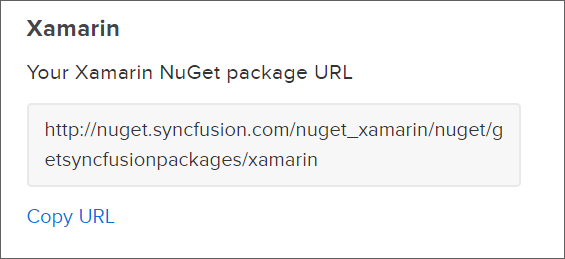
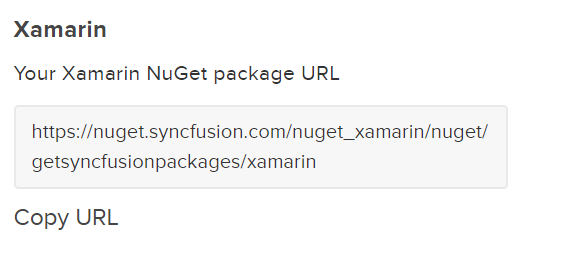
EXT-3461-NuGet-Feed-Changes

diff --git a/Xamarin/NuGet-Packages.md b/Xamarin/NuGet-Packages.md
@@ -30,7 +30,7 @@ You should get the private Syncfusion Xamarin NuGet feed URL to install or upgra
 
 2. Click the Copy URL label under Xamarin platform to copy the Syncfusion Xamarin platform NuGet feed to clipboard or directly use the following URL: 
 
-    [http://nuget.syncfusion.com/nuget_xamarin/nuget/getsyncfusionpackages/xamarin](http://nuget.syncfusion.com/nuget_xamarin/nuget/getsyncfusionpackages/xamarin) 
+    [https://nuget.syncfusion.com/nuget_xamarin/nuget/getsyncfusionpackages/xamarin](https://nuget.syncfusion.com/nuget_xamarin/nuget/getsyncfusionpackages/xamarin) 
 
     ![](NuGet_Packages_Images/img1.png)
 
@@ -51,7 +51,7 @@ You should get the private Syncfusion Xamarin NuGet feed URL to install or upgra
     **Name:** Name of the package listed in the available package sources.
     
     **Source:** Syncfusion Xamarin NuGet Feed URL      
-    [http://nuget.syncfusion.com/nuget_xamarin/nuget/getsyncfusionpackages/xamarin](http://nuget.syncfusion.com/nuget_xamarin/nuget/getsyncfusionpackages/xamarin).
+    [https://nuget.syncfusion.com/nuget_xamarin/nuget/getsyncfusionpackages/xamarin](https://nuget.syncfusion.com/nuget_xamarin/nuget/getsyncfusionpackages/xamarin).
 
 5.	Click the **Update** button to add the name and source details to package sources. 
 
@@ -73,7 +73,7 @@ You should get the private Syncfusion Xamarin NuGet feed URL to install or upgra
 
     **Name:** Enter the name (For e.g., Syncfusion Xamarin Packages).
 
-    **Location:** Enter the following URL – [http://nuget.syncfusion.com/nuget_xamarin/nuget/getsyncfusionpackages/xamarin](http://nuget.syncfusion.com/nuget_xamarin/nuget/getsyncfusionpackages/xamarin).
+    **Location:** Enter the following URL – [https://nuget.syncfusion.com/nuget_xamarin/nuget/getsyncfusionpackages/xamarin](https://nuget.syncfusion.com/nuget_xamarin/nuget/getsyncfusionpackages/xamarin).
 
     ![](NuGet_Packages_Images/img5.png)
  
@@ -120,7 +120,7 @@ To reference the Syncfusion Xamarin.Forms component using the Package Manager Co
     Install-Package Syncfusion.Xamarin.SfChart
 
     #install specified package in default project with specified package source
-    Install-Package Syncfusion.Xamarin.SfChart -Source "http://nuget.syncfusion.com/nuget_xamarin/nuget/getsyncfusionpackages/xamarin"
+    Install-Package Syncfusion.Xamarin.SfChart -Source "https://nuget.syncfusion.com/nuget_xamarin/nuget/getsyncfusionpackages/xamarin"
 
     #install specified package in specified project 
     Install-Package Syncfusion.Xamarin.SfChart -ProjectName SyncfusionDemoApplication
@@ -168,10 +168,10 @@ The NuGet Command Line Interface (CLI), nuget.exe, provides the full extent of N
 
     ~~~
     #For Windows platform
-    nuget.exe Sources Add –Name “Syncfusion Source” –Source “http://nuget.syncfusion.com/nuget_xamarin/nuget/getsyncfusionpackages/xamarin”
+    nuget.exe Sources Add –Name “Syncfusion Source” –Source “https://nuget.syncfusion.com/nuget_xamarin/nuget/getsyncfusionpackages/xamarin”
 
     #For MAC/Linux platform
-    mono nuget.exe Sources Add –Name “Syncfusion Source” –Source “http://nuget.syncfusion.com/nuget_xamarin/nuget/getsyncfusionpackages/xamarin”
+    mono nuget.exe Sources Add –Name “Syncfusion Source” –Source “https://nuget.syncfusion.com/nuget_xamarin/nuget/getsyncfusionpackages/xamarin”
     ~~~
 
 ### NuGet installation
@@ -198,7 +198,7 @@ nuget.exe install “Syncfusion.Xamarin.Calculate”
 nuget.exe install “C:\Users\SyncfusionApplication\package.config”
 
 #install specific Syncfusion NuGet package with Syncfusion Xamarin NuGet feed for windows 
-nuget.exe install “Syncfusion.Xamarin.Calculate ”  –Source “http://nuget.syncfusion.com/nuget_xamarin/nuget/getsyncfusionpackages/xamarin”
+nuget.exe install “Syncfusion.Xamarin.Calculate ”  –Source “https://nuget.syncfusion.com/nuget_xamarin/nuget/getsyncfusionpackages/xamarin”
 
 #install specific package for Mac and Linux 
 mono nuget.exe install “Syncfusion.Xamarin.Calculate”
@@ -207,7 +207,7 @@ mono nuget.exe install “Syncfusion.Xamarin.Calculate”
 mono nuget.exe install “C:\Users\SyncfusionApplication\package.config”
 
 #install specific Syncfusion NuGet package with Syncfusion Xamarin NuGet feed for Mac and Linux 
-mono nuget.exe install “Syncfusion.Xamarin.Calculate ”  –Source “http://nuget.syncfusion.com/nuget_xamarin/nuget/getsyncfusionpackages/xamarin”
+mono nuget.exe install “Syncfusion.Xamarin.Calculate ”  –Source “https://nuget.syncfusion.com/nuget_xamarin/nuget/getsyncfusionpackages/xamarin”
 ~~~
 
 ## Upgrading NuGet packages
@@ -262,7 +262,7 @@ To update the installed Syncfusion Xamarin.Forms NuGet packages using the Packag
     Update-Package Syncfusion.Xamarin.Calculate
 
     #Update specified package in default project with specified package source
-    Update-Package Syncfusion.Xamarin.Calculate –Source “http://nuget.syncfusion.com/nuget_xamarin/nuget/getsyncfusionpackages/xamarin” 
+    Update-Package Syncfusion.Xamarin.Calculate –Source “https://nuget.syncfusion.com/nuget_xamarin/nuget/getsyncfusionpackages/xamarin” 
 
     #Update specified package in specified project 
     Update-Package Syncfusion.Xamarin.Calculate -ProjectName SyncfusionDemoApplication
@@ -299,7 +299,7 @@ Using the NuGet CLI, all the NuGet packages in the project can be updated to the
     nuget update “C:\Users\SyncfusionApplication\package.config”
 
     #update all NuGet packages from specified Packages Source
-    nuget update -Source “http://nuget.syncfusion.com/nuget_xamarin/nuget/getsyncfusionpackages/xamarin”
+    nuget update -Source “https://nuget.syncfusion.com/nuget_xamarin/nuget/getsyncfusionpackages/xamarin”
     ~~~
 
     N> Update command is not working as expected in Mono (Mac and Linux) and projects using PackageReference format.
